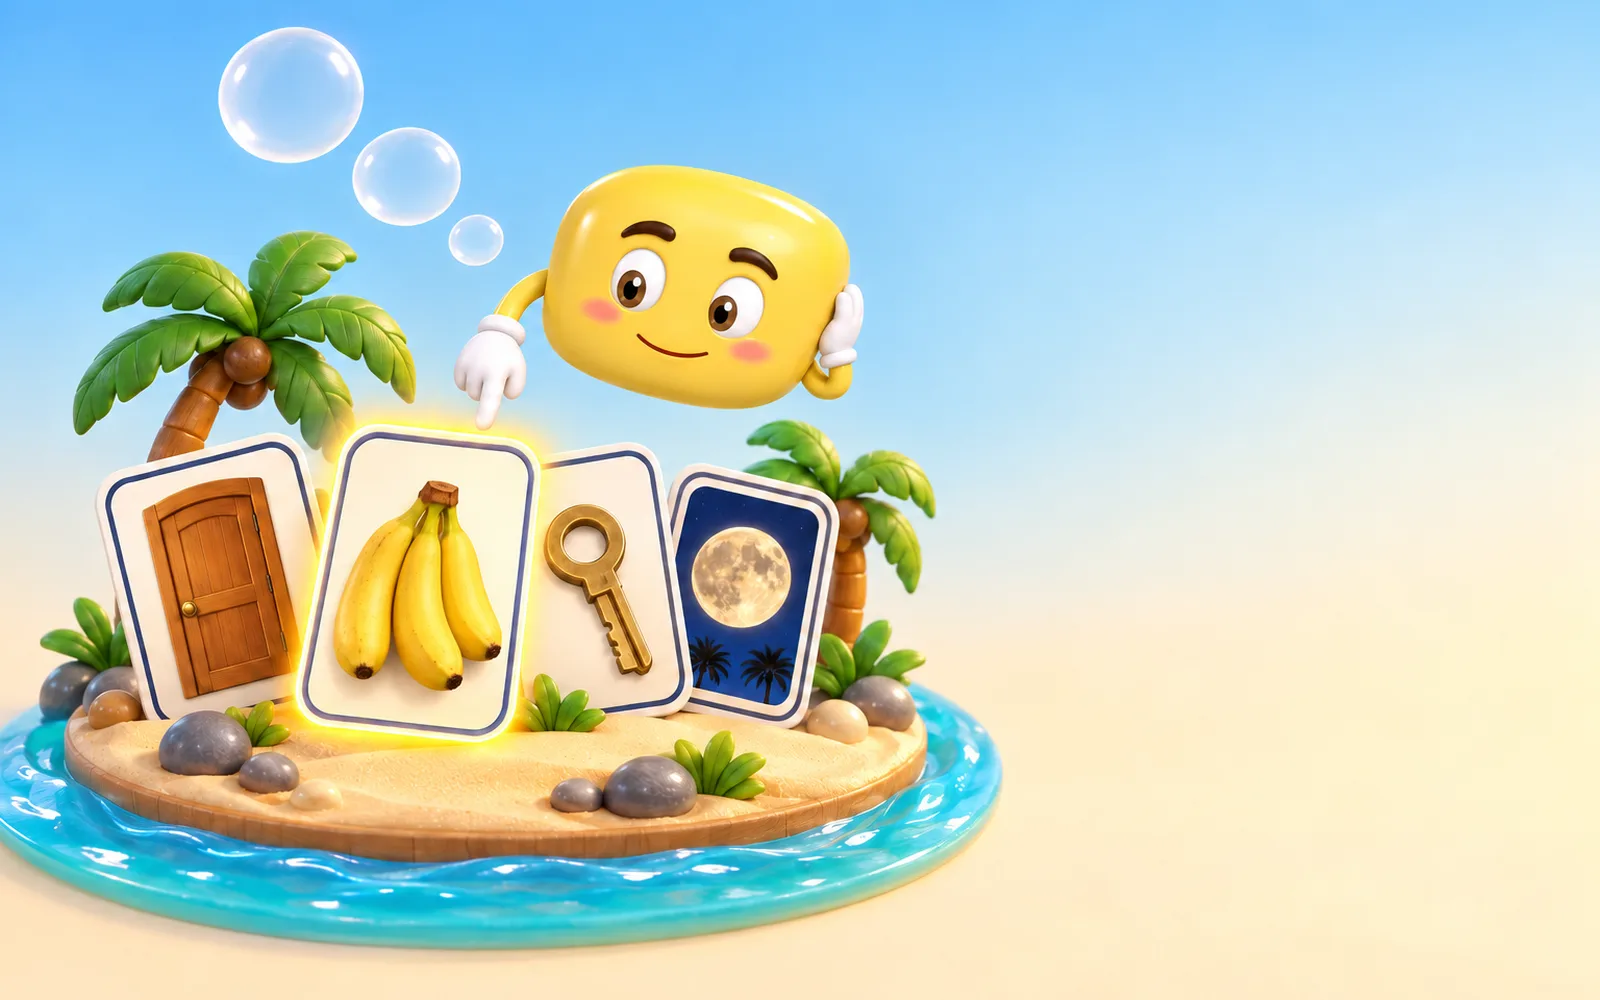
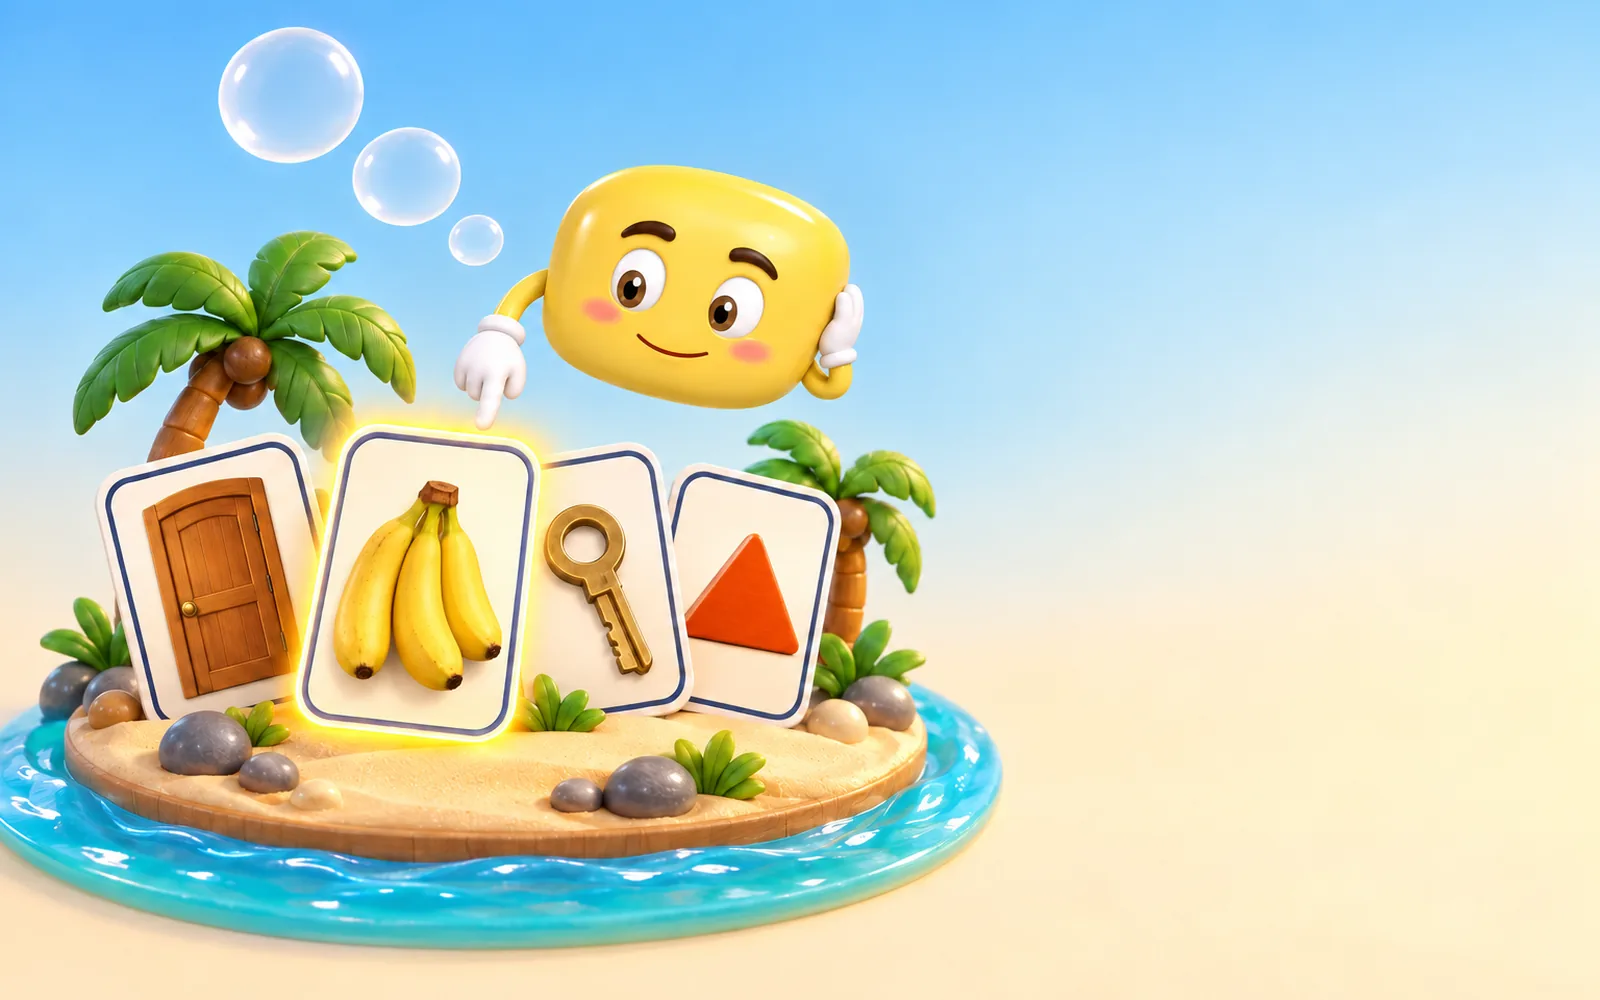
v8 draft 15

Changed region(s): [[0.4062, 0.465, 0.5312, 0.744]]

diff --git a/js/el7/E16.js b/js/el7/E16.js
@@ -18,10 +18,11 @@
      الحركات (مِ – مُ – ما – مو – مي)» · «عناوين المهام طويلة جدّاً، مع تغيير صوت مَ إلى حركات مختلفة قصيرة أو طويلة» →
      4 missions, short titles, each on a DIFFERENT vowel sound: k1 مِ (مِفْتاح · مِلْعَقَة · مِرْآة) · k2 مَ (مَوْز) · k3 مُ (مُثَلَّث · مُرَبَّع · مُسْتَطيل) ·
      k4 the long sounds ما · مي · مو (draw «م» in the sand and say them). Lines bq7_E16_pick8 · bq7_E16_k1..k4 (BRQ, eleven_v4, −17 LUFS). */
-  const HAVE8 = new Set(['e16_sand_tray', 'w8_muthallath']); // img8 keys known to exist (T5 art, 2026-10-07)
+  const HAVE8 = new Set(['e16_sand_tray', 'w8_muthallath', 'e16_k1_trio']); // img8 keys known to exist (T5 art, 2026-10-07)
   const SHAPES = '<svg xmlns="http://www.w3.org/2000/svg" viewBox="0 0 300 300"><rect width="300" height="300" fill="#FFF7E6"/><path d="M78 36 136 136H20z" fill="#FFC21A" stroke="#0B2D4F" stroke-width="9" stroke-linejoin="round"/><rect x="162" y="44" width="96" height="96" rx="6" fill="#3D7BF0" stroke="#0B2D4F" stroke-width="9"/><rect x="48" y="178" width="204" height="86" rx="6" fill="#22C27A" stroke="#0B2D4F" stroke-width="9"/></svg>';
   const MISSIONS = [
-    { id: 'k1', img: 'card_miftah', label: 'مِفْتاحٌ وَمِرْآةٌ', line: 'bq7_E16_k1', text: 'اِبْحَث مَعَ أُسْرَتِكَ عَن: مِفْتاحٍ، وَمِلْعَقَةٍ، وَمِرْآةٍ.' },
+    // ART-12 B-11: k1 picture = key + spoon + mirror (GPT draft e16_k1_trio); card_miftah stays as fallback
+    { id: 'k1', img8: 'e16_k1_trio', img: 'card_miftah', label: 'مِفْتاحٌ وَمِلْعَقَةٌ وَمِرْآةٌ', line: 'bq7_E16_k1', text: 'اِبْحَث مَعَ أُسْرَتِكَ عَن: مِفْتاحٍ، وَمِلْعَقَةٍ، وَمِرْآةٍ.' },
     { id: 'k2', img: 'card_mawz', label: 'مَوْزٌ لَذيذٌ', line: 'bq7_E16_k2', text: 'تَذَوَّق مَعَ أُسْرَتِكَ مَوْزًا، وَقُلِ اسْمَهُ.' },
     // FIX12-B B-11: k3 shows all THREE shapes of its task (triangle + square + rectangle, the SHAPES drawing) — not the triangle alone
     { id: 'k3', svg: SHAPES, label: 'مُثَلَّثٌ وَمُرَبَّعٌ', line: 'bq7_E16_k3', text: 'اُرْسُم مَعَ أُسْرَتِكَ: مُثَلَّثًا، وَمُرَبَّعًا، وَمُسْتَطيلًا.' },

diff --git a/js/data.js b/js/data.js
@@ -1,6 +1,6 @@
 /* data.js — مولَّد من build_data_v7.py (لا تحرّره يدوياً) · v7 مسوّدة · draft_unapproved */
 window.BQ_DATA={
-"build": "261008030914",
+"build": "261008032310",
 "lesson_id": "L1-01-d1",
 "title": "صَوْتُ «م»",
 "title_plan": "صوت الميم /م/",
